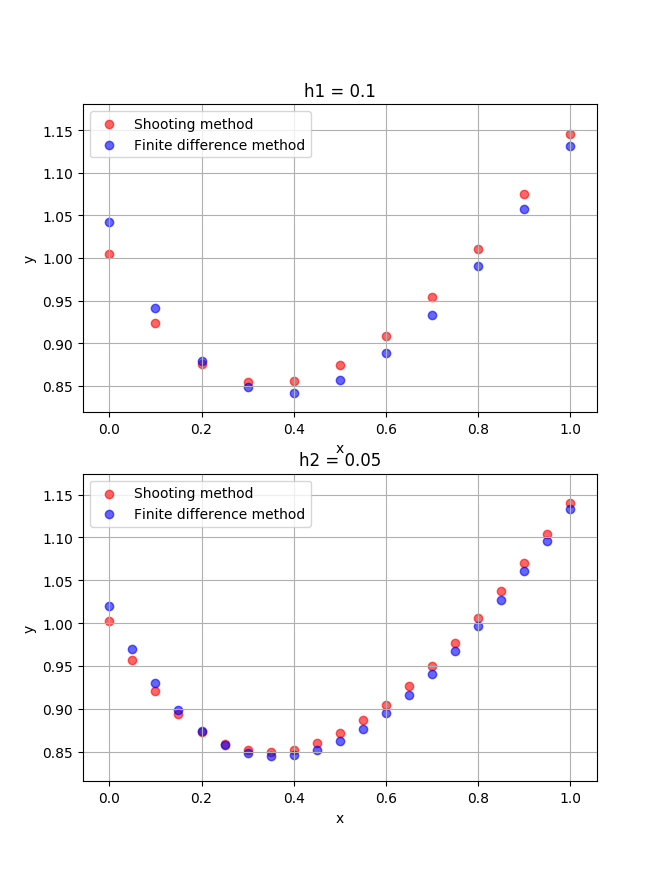
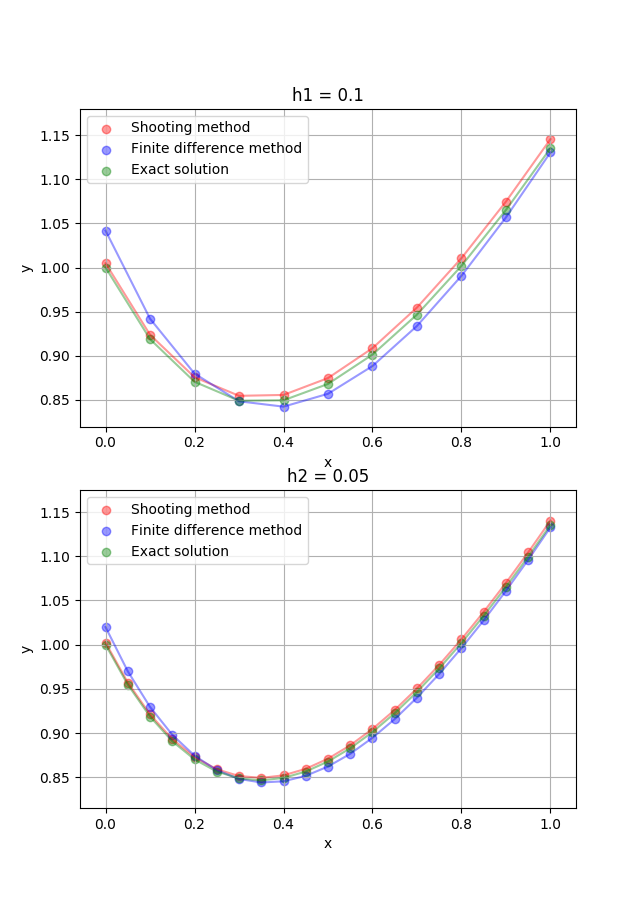
NM: 4-2 add exact solution and update plot

diff --git a/NM/lab4/4-2/main.py b/NM/lab4/4-2/main.py
@@ -99,12 +99,16 @@ def Runge_Romberg_method(res):
     return {'Shooting': err_shooting, 'FD': err_fd}
 
 
-def draw_plot(res, *h):
+def draw_plot(res, exact, *h):
     n = len(res)
     for i in range(n):
         plt.subplot(n, 1, i + 1)
-        plt.scatter(res[i]["Shooting"]["x"], res[i]["Shooting"]["y"], color='r', alpha=0.6, label='Shooting method')
-        plt.scatter(res[i]["FD"]["x"], res[i]["FD"]["y"], color='b', alpha=0.6, label='Finite difference method')
+        plt.scatter(res[i]["Shooting"]["x"], res[i]["Shooting"]["y"], color='r', alpha=0.4, label='Shooting method')
+        plt.plot(res[i]["Shooting"]["x"], res[i]["Shooting"]["y"], color='r', alpha=0.4)
+        plt.scatter(res[i]["FD"]["x"], res[i]["FD"]["y"], color='b', alpha=0.4, label='Finite difference method')
+        plt.plot(res[i]["FD"]["x"], res[i]["FD"]["y"], color='b', alpha=0.4)
+        plt.scatter(exact[i][0], exact[i][1], color='g', alpha=0.4, label='Exact solution')
+        plt.plot(exact[i][0], exact[i][1], color='g', alpha=0.4)
         plt.legend()
         plt.title('h{0} = '.format(i + 1) + str(h[i]))
         plt.xlabel('x')
@@ -150,11 +154,18 @@ if __name__ == '__main__':
                         "FD": {'x': res2[0], 'y': res2[1]}
                         })
 
+    exact = []
+    for h in steps:
+        x_exact = [i for i in np.arange(a, b + h, h)]
+        y_exact = [exact_func(i) for i in x_exact]
+        exact.append((x_exact, y_exact))
+
+
     errors = Runge_Romberg_method(save_res)
     logging.info("Errors")
     logging.info("Shooting error: {0}".format(errors['Shooting']))
     logging.info("FD error: {0}".format(errors['FD']))
 
-    draw_plot(save_res, st, st / 2)
+    draw_plot(save_res, exact, st, st / 2)
 
     save_to_file(args.output, h1=save_res[0], h2=save_res[1], errors=errors)
